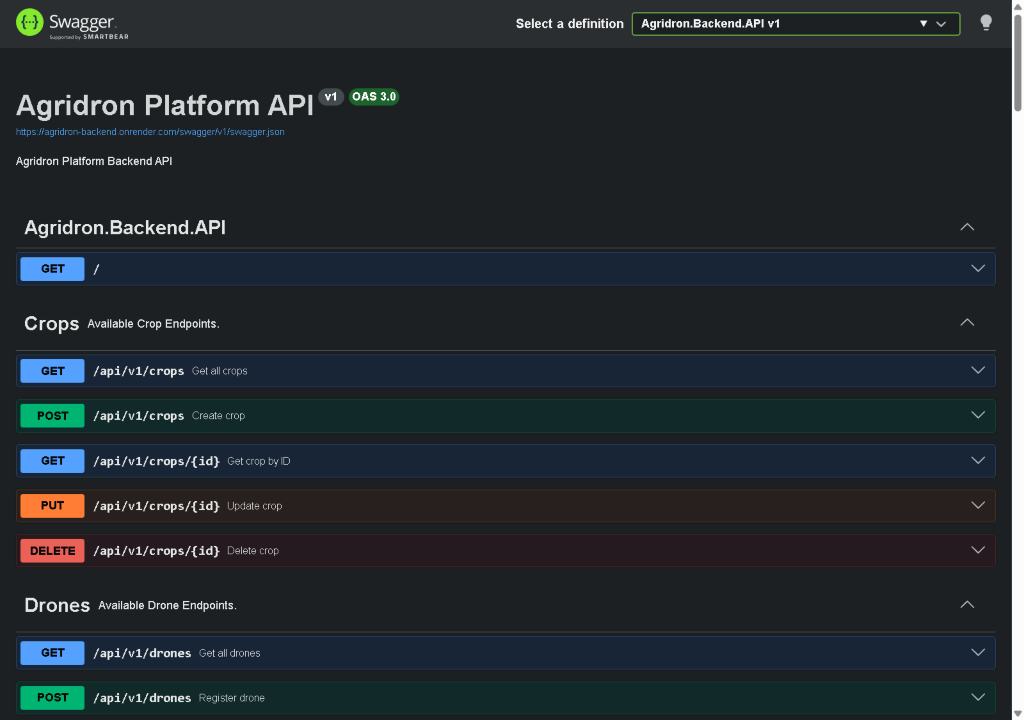
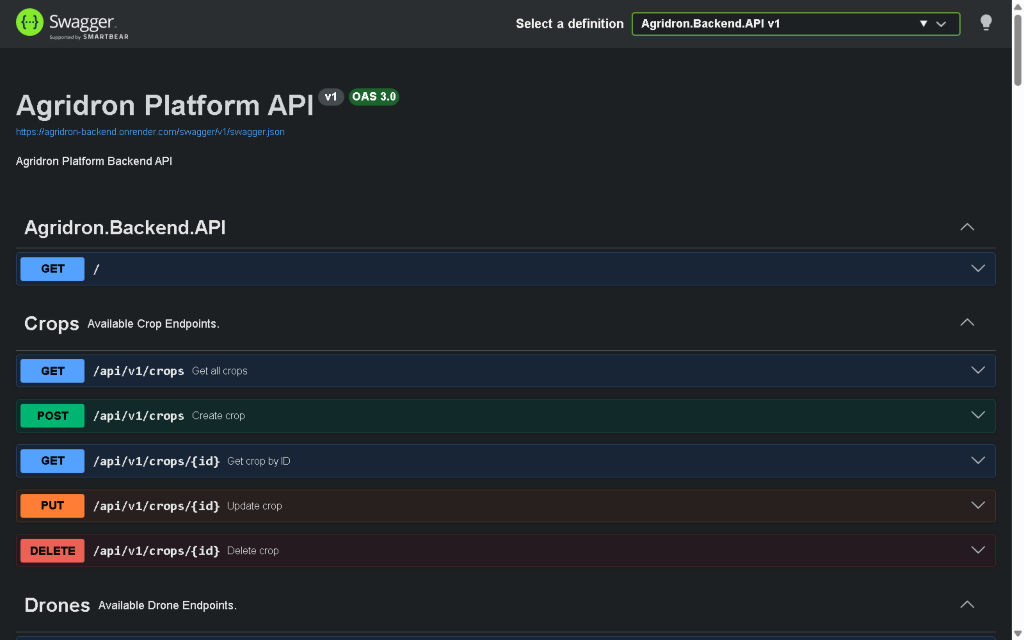
docs(sprint3): update execution, swagger and deployment evidence with browser captures

diff --git a/README.md b/README.md
@@ -3341,36 +3341,82 @@ A continuación se presentan los commits más representativos ejecutados durante
 
 Durante este Sprint se consolidó la versión operativa de la Web Application desplegada en la nube conectada de extremo a extremo con el backend RESTful en ASP.NET Core 10. Las principales funcionalidades operativas son:
 
-1. **Gestión de Fincas y Parcelas con delimitación GeoJSON (Field Management):**
+1. **Dashboard Operativo e Integración Meteorológica en Vivo:**
+   Muestra métricas consolidadas en tiempo real (fincas registradas, parcelas, misiones y hectáreas totales), la tabla de misiones recientes y el widget meteorológico integrado con Open-Meteo y geocodificación inversa para validar condiciones de aspersión (`viento <= 15 km/h` y sin lluvia).
+2. **Gestión de Fincas y Parcelas con delimitación GeoJSON (Field Management):**
    Permite a los agricultores registrar sus unidades productivas mediante formularios reactivos que incorporan validación geométrica de polígonos GeoJSON (coordenadas de latitud y longitud). Cada parcela calcula su área en hectáreas y vincula el tipo de cultivo asociado.
-2. **Administración de Flota de Drones Agrícolas (Flight Operations):**
-   Presenta el catálogo de aeronaves no tripuladas disponibles, especificando modelo, fabricante, capacidad del tanque de aspersión en litros, autonomía de batería en minutos y estado operacional actual (DISPONIBLE, EN_MISION, MANTENIMIENTO, INACTIVO).
-3. **Planificación y Orquestación del Ciclo de Vida de Misiones de Fumigación:**
-   Módulo avanzado que modela la máquina de estados finita de una misión: Creación (DRAFT) -> Asignación de Recursos y Operador -> Configuración de Parámetros de Aspersión (altitud de vuelo, velocidad crucero, caudal de pulverización en L/ha) -> Aprobación (APPROVED) -> Inicio de Operación (IN_PROGRESS) -> Pausa / Reanudación (PAUSED) -> Finalización (COMPLETED) o Cancelación (CANCELLED).
-4. **Cabina de Telemetría en Vivo y Bitácora de Incidentes:**
-   Panel de supervisión interactivo que simula la recepción de telemetría del dron en vuelo: porcentaje de batería en tiempo real, altitud de vuelo, velocidad respecto al suelo, presión y nivel de líquido remanente en el depósito de aspersión. Además, permite reportar incidencias clasificadas por severidad (BAJA, MEDIA, ALTA, CRITICA).
-5. **Selector de Idioma Dinámico (i18n) y Notificaciones Toast Globales:**
-   Integración de PrimeVue `SelectButton` en la barra de navegación para conmutar fluidamente entre español e inglés (`es.json` y `en.json`), con persistencia en `localStorage`. Además, la integración de PrimeVue `ToastService` provee retroalimentación visual no invasiva en operaciones exitosas, advertencias y fallos del sistema.
+3. **Administración de Flota de Drones y Mantenimiento (Flight Operations):**
+   Presenta el catálogo de aeronaves no tripuladas conectadas con el backend (`DJI Agras T30`, `DJI Agras T40`, `XAG P100 Pro`), mostrando modelo, número de serie, capacidad del tanque en litros, horas de vuelo, batería y estado operacional (`AVAILABLE`, `ASSIGNED`, `IN_FLIGHT`, `PAUSED`, `MAINTENANCE`, `OUT_OF_SERVICE`), además del flujo de **Send to maintenance**, **Report failure** e historial **Maintenance History**.
+4. **Planificación y Orquestación del Ciclo de Vida de Misiones de Fumigación:**
+   Módulo avanzado que modela la máquina de estados finita de una misión: Creación (`DRAFT`) -> Asignación de Recursos y Operador -> Configuración de Parámetros de Aspersión (altitud de vuelo, velocidad crucero, caudal de pulverización en L/ha) -> Aprobación (`APPROVED`) -> Inicio de Operación (`IN_PROGRESS`) -> Pausa / Reanudación (`PAUSED`) -> Finalización (`COMPLETED`) o Cancelación (`CANCELLED`).
+5. **Cabina de Telemetría en Vivo y Bitácora de Incidentes:**
+   Panel de supervisión interactivo (`/misiones/:id/monitoreo`) que simula y persiste lecturas telemétricas del dron en vuelo (trayectoria en mapa, batería en tiempo real, altitud AGL, velocidad, nivel de tanque, cobertura y condiciones meteorológicas pre-vuelo), junto con el registro de incidencias.
+6. **Gestión de Inventario, Selector de Idioma Dinámico (`EN` / `ES`) y Diseño Responsivo:**
+   Módulo de inventario de agroquímicos y boquillas (`/inventario`), conmutación dinámica de idioma mediante PrimeVue `SelectButton` persistida en `localStorage`, notificaciones con `ToastService` y adaptación responsiva en dispositivos móviles (`390×844`).
+
+![Dashboard Operativo en Inglés](assets/chapter5/sprint3/exec-dashboard-en.png)
+
+*Figura: Dashboard principal (`/inicio`) en inglés mostrando KPIs reales, misiones recientes y condiciones meteorológicas en vivo.*
+
+![Gestión de Parcelas](assets/chapter5/sprint3/exec-parcels.png)
+
+*Figura: Vista de gestión de parcelas (`/parcelas`) con cultivo asignado, área en hectáreas y acciones CRUD.*
+
+![Flota de Drones Agrícolas](assets/chapter5/sprint3/exec-drones-fleet.png)
+
+*Figura: Catálogo de flota de drones (`/drones`) sincronizado con la API RESTful de producción.*
+
+![Detalle de Dron y Mantenimiento](assets/chapter5/sprint3/exec-drone-maintenance.png)
+
+*Figura: Vista de detalle de dron (`/drones/1`) con acciones de mantenimiento (`Send to maintenance`), reporte de falla (`Report failure`) e historial (`Maintenance History`).*
+
+![Cabina de Telemetría en Vivo](assets/chapter5/sprint3/exec-mission-cockpit.png)
+
+*Figura: Cabina de control y telemetría en vivo (`/misiones/1/monitoreo`) con trayectoria, indicadores de vuelo, clima e incidencias.*
+
+![Gestión de Inventario y Recursos](assets/chapter5/sprint3/exec-inventory.png)
+
+*Figura: Módulo de Inventario y Gestión de Recursos (`/inventario`) para agroquímicos y boquillas.*
+
+![Vista Móvil Responsiva de AgriDron Web App](assets/chapter5/sprint3/exec-mobile-responsive.png)
+
+*Figura: Adaptación responsiva en viewport móvil (`390×844`) con menú colapsable y tarjetas apiladas.*
 
 #### 5.2.3.6. Services Documentation Evidence for Sprint Review
 
-El backend de AgriDron Solutions fue diseñado e implementado siguiendo rigurosamente los principios de **Domain-Driven Design (DDD)** táctico propuestos por Eric Evans, complementado con el patrón **Command Query Responsibility Segregation (CQRS)** mediante MediatR. La API RESTful expone 50 operaciones completamente documentadas con OpenAPI Specification (OAS 3.0) y visualizadas interactivamente a través de Swagger UI.
+El backend de AgriDron Solutions fue diseñado e implementado siguiendo rigurosamente los principios de **Domain-Driven Design (DDD)** táctico, complementado con el patrón **Command Query Responsibility Segregation (CQRS)** mediante **Cortex Mediator**. La API RESTful expone **54 operaciones** completamente documentadas con OpenAPI Specification (OAS 3.0) y visualizadas interactivamente a través de Swagger UI, incluyendo los endpoints de mantenimiento preventivo/correctivo y fallos de flota incorporados en el Sprint 3.
 
 - **Repositorio de código fuente:** [https://github.com/AgriDon/Agridron-backend](https://github.com/AgriDon/Agridron-backend)
 - **Documentación Swagger interactiva en vivo:** [https://agridron-backend.onrender.com/swagger/index.html](https://agridron-backend.onrender.com/swagger/index.html)
 
 ![Documentación Swagger UI de AgriDron Backend API](assets/chapter5/sprint3/swagger-documentation.png)
 
-*Figura: Interfaz de Swagger UI desplegada en Render mostrando los endpoints de Field Management y Flight Operations.*
+*Figura: Interfaz de Swagger UI desplegada en Render mostrando los grupos de endpoints de Crops, Drones, Farms, FumigationAreas, Incidents, Missions, Operations y Parcels.*
 
-A continuación se detalla la matriz completa de los 50 endpoints que componen los servicios RESTful del backend:
+![Endpoints de Drones y Mantenimiento en Swagger UI](assets/chapter5/sprint3/swagger-drones-maintenance.png)
+
+*Figura: Endpoints del controlador `Drones` en Swagger UI incluyendo el registro de mantenimiento, finalización, reporte de fallos e historial de registros.*
+
+![Prueba interactiva Try it out de GET /api/v1/drones](assets/chapter5/sprint3/swagger-try-it-out-drones.png)
+
+*Figura: Ejecución en vivo desde Swagger UI (`GET /api/v1/drones`) retornando HTTP `200 OK` con la flota inicializada (`AGRI-DR-002` DJI Agras T30, `AGRI-DR-001` DJI Agras T40, `AGRI-DR-003` XAG P100 Pro).*
+
+![Esquema de petición POST /api/v1/drones/{id}/maintenance en Swagger UI](assets/chapter5/sprint3/swagger-post-maintenance-schema.png)
+
+*Figura: Contrato OpenAPI y esquema JSON de `POST /api/v1/drones/{id}/maintenance` en Swagger UI.*
+
+![Endpoints de Misiones y Máquina de Estados en Swagger UI](assets/chapter5/sprint3/swagger-missions-endpoints.png)
+
+*Figura: Endpoints del controlador `Missions` cubriendo CRUD y transiciones de ciclo de vida (`approve`, `start`, `pause`, `resume`, `complete`, `cancel`).*
+
+A continuación se detalla la matriz completa de los **54 endpoints** que componen los servicios RESTful del backend:
 
 | # | Bounded Context | Controlador | Método | Ruta del Endpoint | Códigos HTTP | Propósito Funcional |
 |:--:|:--|:--|:--:|:--|:--:|:--|
 | 1 | Field Management | Crops | `GET` | `/api/v1/crops` | 200 | Listar todos los cultivos registrados |
 | 2 | Field Management | Crops | `GET` | `/api/v1/crops/{id}` | 200, 404 | Obtener detalle de cultivo por ID |
 | 3 | Field Management | Crops | `POST` | `/api/v1/crops` | 201, 400 | Registrar un nuevo cultivo fitosanitario |
-| 4 | Field Management | Crops | `PUT` | `/api/v1/crops/{id}` | 200, 400, 404 | Actualizar datos y requerimientos del cultivo |
+| 4 | Field Management | Crops | `PUT` | `/api/v1/crops/{id}` | 200, 400, 404 | Actualizar datos y requisitos del cultivo |
 | 5 | Field Management | Crops | `DELETE` | `/api/v1/crops/{id}` | 204, 404 | Eliminar cultivo por ID |
 | 6 | Field Management | Farms | `GET` | `/api/v1/farms` | 200 | Listar todas las fincas agrícolas |
 | 7 | Field Management | Farms | `GET` | `/api/v1/farms/{id}` | 200, 404 | Obtener información detallada de finca por ID |
@@ -3392,31 +3438,35 @@ A continuación se detalla la matriz completa de los 50 endpoints que componen l
 | 23 | Flight Operations | Drones | `POST` | `/api/v1/drones` | 201, 400 | Registrar nueva aeronave con capacidad y autonomía |
 | 24 | Flight Operations | Drones | `PUT` | `/api/v1/drones/{id}` | 200, 400, 404 | Actualizar datos técnicos o estado de operatividad |
 | 25 | Flight Operations | Drones | `DELETE` | `/api/v1/drones/{id}` | 204, 404 | Retirar aeronave de la flota activa |
-| 26 | Flight Operations | Missions | `GET` | `/api/v1/missions` | 200 | Listar misiones de fumigación planificadas y ejecutadas |
-| 27 | Flight Operations | Missions | `GET` | `/api/v1/missions/{id}` | 200, 404 | Consultar estado y parámetros completos de una misión |
-| 28 | Flight Operations | Missions | `POST` | `/api/v1/missions` | 201, 400 | Crear borrador de misión fitosanitaria (estado DRAFT) |
-| 29 | Flight Operations | Missions | `PUT` | `/api/v1/missions/{id}` | 200, 400, 404 | Modificar datos base del borrador de misión |
-| 30 | Flight Operations | Missions | `DELETE` | `/api/v1/missions/{id}` | 204, 404 | Eliminar misión en estado borrador |
-| 31 | Flight Operations | Missions | `POST` | `/api/v1/missions/{id}/resources` | 200, 400, 404 | Asignar dron y área de fumigación a la misión |
-| 32 | Flight Operations | Missions | `POST` | `/api/v1/missions/{id}/operator` | 200, 400, 404 | Asignar operador técnico certificado a la misión |
-| 33 | Flight Operations | Missions | `POST` | `/api/v1/missions/{id}/flight-parameters` | 200, 400, 404 | Configurar altitud, velocidad, caudal y modo de vuelo |
-| 34 | Flight Operations | Missions | `POST` | `/api/v1/missions/{id}/approve` | 200, 400, 404 | Transición de estado: Aprobar misión (DRAFT -> APPROVED) |
-| 35 | Flight Operations | Missions | `POST` | `/api/v1/missions/{id}/start` | 200, 400, 404 | Transición de estado: Iniciar vuelo (APPROVED -> IN_PROGRESS) |
-| 36 | Flight Operations | Missions | `POST` | `/api/v1/missions/{id}/pause` | 200, 400, 404 | Transición de estado: Pausar misión (IN_PROGRESS -> PAUSED) |
-| 37 | Flight Operations | Missions | `POST` | `/api/v1/missions/{id}/resume` | 200, 400, 404 | Transición de estado: Reanudar vuelo (PAUSED -> IN_PROGRESS) |
-| 38 | Flight Operations | Missions | `POST` | `/api/v1/missions/{id}/complete` | 200, 400, 404 | Transición de estado: Completar misión (IN_PROGRESS -> COMPLETED) |
-| 39 | Flight Operations | Missions | `POST` | `/api/v1/missions/{id}/cancel` | 200, 400, 404 | Cancelar misión y liberar recursos asociados |
-| 40 | Flight Operations | Operations | `GET` | `/api/v1/operations` | 200 | Listar estados operacionales y bitácora telemétrica |
-| 41 | Flight Operations | Operations | `GET` | `/api/v1/operations/{id}` | 200, 404 | Consultar reporte telemétrico individual |
-| 42 | Flight Operations | Operations | `POST` | `/api/v1/operations` | 201, 400 | Registrar nuevo reporte de telemetría de dron en vuelo |
-| 43 | Flight Operations | Operations | `PUT` | `/api/v1/operations/{id}` | 200, 400, 404 | Actualizar métricas del estado operacional |
-| 44 | Flight Operations | Operations | `DELETE` | `/api/v1/operations/{id}` | 204, 404 | Eliminar registro operacional |
-| 45 | Flight Operations | Incidents | `GET` | `/api/v1/incidents` | 200 | Listar bitácora de incidentes reportados en vuelo |
-| 46 | Flight Operations | Incidents | `GET` | `/api/v1/incidents/{id}` | 200, 404 | Consultar incidente particular con su nivel de severidad |
-| 47 | Flight Operations | Incidents | `POST` | `/api/v1/incidents` | 201, 400 | Reportar nuevo incidente técnico o climático |
-| 48 | Flight Operations | Incidents | `PUT` | `/api/v1/incidents/{id}` | 200, 400, 404 | Actualizar resolución o descripción del incidente |
-| 49 | Flight Operations | Incidents | `DELETE` | `/api/v1/incidents/{id}` | 204, 404 | Eliminar registro de incidente |
-| 50 | Shared API | Root | `GET` | `/` | 302 | Redirección directa a la documentación Swagger UI |
+| 26 | Flight Operations | Drones | `POST` | `/api/v1/drones/{id}/maintenance` | 200, 400, 404 | Enviar aeronave a mantenimiento preventivo o correctivo |
+| 27 | Flight Operations | Drones | `POST` | `/api/v1/drones/{id}/maintenance/complete` | 200, 400, 404 | Finalizar mantenimiento y restaurar disponibilidad operativa |
+| 28 | Flight Operations | Drones | `POST` | `/api/v1/drones/{id}/failure` | 200, 400, 404 | Reportar fallo técnico y bloquear aeronave para vuelo |
+| 29 | Flight Operations | Drones | `GET` | `/api/v1/drones/{id}/maintenance-records` | 200, 404 | Consultar historial de registros de mantenimiento del dron |
+| 30 | Flight Operations | Missions | `GET` | `/api/v1/missions` | 200 | Listar misiones de fumigación planificadas y ejecutadas |
+| 31 | Flight Operations | Missions | `GET` | `/api/v1/missions/{id}` | 200, 404 | Consultar estado y parámetros completos de una misión |
+| 32 | Flight Operations | Missions | `POST` | `/api/v1/missions` | 201, 400 | Crear borrador de misión fitosanitaria (estado DRAFT) |
+| 33 | Flight Operations | Missions | `PUT` | `/api/v1/missions/{id}` | 200, 400, 404 | Modificar datos base del borrador de misión |
+| 34 | Flight Operations | Missions | `DELETE` | `/api/v1/missions/{id}` | 204, 404 | Eliminar misión en estado borrador |
+| 35 | Flight Operations | Missions | `POST` | `/api/v1/missions/{id}/resources` | 200, 400, 404 | Asignar dron y área de fumigación a la misión |
+| 36 | Flight Operations | Missions | `POST` | `/api/v1/missions/{id}/operator` | 200, 400, 404 | Asignar operador técnico certificado a la misión |
+| 37 | Flight Operations | Missions | `POST` | `/api/v1/missions/{id}/flight-parameters` | 200, 400, 404 | Configurar altitud, velocidad, caudal y modo de vuelo |
+| 38 | Flight Operations | Missions | `POST` | `/api/v1/missions/{id}/approve` | 200, 400, 404 | Transición de estado: Aprobar misión (DRAFT -> APPROVED) |
+| 39 | Flight Operations | Missions | `POST` | `/api/v1/missions/{id}/start` | 200, 400, 404 | Transición de estado: Iniciar vuelo (APPROVED -> IN_PROGRESS) |
+| 40 | Flight Operations | Missions | `POST` | `/api/v1/missions/{id}/pause` | 200, 400, 404 | Transición de estado: Pausar misión (IN_PROGRESS -> PAUSED) |
+| 41 | Flight Operations | Missions | `POST` | `/api/v1/missions/{id}/resume` | 200, 400, 404 | Transición de estado: Reanudar vuelo (PAUSED -> IN_PROGRESS) |
+| 42 | Flight Operations | Missions | `POST` | `/api/v1/missions/{id}/complete` | 200, 400, 404 | Transición de estado: Completar misión (IN_PROGRESS -> COMPLETED) |
+| 43 | Flight Operations | Missions | `POST` | `/api/v1/missions/{id}/cancel` | 200, 400, 404 | Cancelar misión y liberar recursos asociados |
+| 44 | Flight Operations | Operations | `GET` | `/api/v1/operations` | 200 | Listar estados operacionales y bitácora telemétrica |
+| 45 | Flight Operations | Operations | `GET` | `/api/v1/operations/{id}` | 200, 404 | Consultar reporte telemétrico individual |
+| 46 | Flight Operations | Operations | `POST` | `/api/v1/operations` | 201, 400 | Registrar nuevo reporte de telemetría de dron en vuelo |
+| 47 | Flight Operations | Operations | `PUT` | `/api/v1/operations/{id}` | 200, 400, 404 | Actualizar métricas del estado operacional |
+| 48 | Flight Operations | Operations | `DELETE` | `/api/v1/operations/{id}` | 204, 404 | Eliminar registro operacional |
+| 49 | Flight Operations | Incidents | `GET` | `/api/v1/incidents` | 200 | Listar bitácora de incidentes reportados en vuelo |
+| 50 | Flight Operations | Incidents | `GET` | `/api/v1/incidents/{id}` | 200, 404 | Consultar incidente particular con su nivel de severidad |
+| 51 | Flight Operations | Incidents | `POST` | `/api/v1/incidents` | 201, 400 | Reportar nuevo incidente técnico o climático |
+| 52 | Flight Operations | Incidents | `PUT` | `/api/v1/incidents/{id}` | 200, 400, 404 | Actualizar resolución o descripción del incidente |
+| 53 | Flight Operations | Incidents | `DELETE` | `/api/v1/incidents/{id}` | 204, 404 | Eliminar registro de incidente |
+| 54 | Shared API | Root | `GET` | `/` | 302 | Redirección directa a la documentación Swagger UI |
 
 #### 5.2.3.7. Software Deployment Evidence for Sprint Review
 
@@ -3426,26 +3476,35 @@ Durante el Sprint 3 se ejecutó el despliegue en la nube de todos los componente
    - La API fue empaquetada como imagen de contenedor Docker utilizando un Dockerfile multi-stage basado en el SDK de .NET 10 y el runtime ASP.NET Core 10.
    - Se configuró como Web Service en la plataforma Render.com conectado a la rama `main` del repositorio `AgriDon/Agridron-backend`, con compilación y despliegue continuo automatizado ante cada commit.
    - La aplicación ejecuta en entorno Linux expuesta en el puerto 8080 con certificados SSL/TLS automáticos.
-   - Al iniciar, el runtime ejecuta automáticamente las migraciones pendientes de Entity Framework Core mediante `Database.Migrate()` y ejecuta el `DatabaseSeeder` para inicializar el catálogo de cultivos, fincas, parcelas y drones.
+   - Al iniciar, el runtime ejecuta automáticamente las migraciones pendientes de Entity Framework Core mediante `Database.Migrate()` (incluyendo `AddMaintenanceRecords`) y ejecuta el `DatabaseSeeder` para inicializar el catálogo de cultivos, fincas, parcelas y drones.
 2. **Base de Datos Relacional MySQL en la Nube (Filess.io):**
    - Se aprovisionó una instancia de base de datos MySQL 8.0 gestionada en el proveedor en la nube Filess.io (`kggahz.h.filess.io:3307`).
    - La base de datos almacena con integridad referencial las entidades de ambos bounded contexts, permitiendo persistencia confiable y consultas de alto rendimiento.
-3. **Web Application Frontend en Firebase Hosting:**
+3. **Web Application Frontend en Render Static Site y Firebase Hosting:**
    - La aplicación web desarrollada en Vue 3 con PrimeVue y Vite se compila para producción generando paquetes optimizados minificados en el directorio `dist/`.
-   - Se desplegó en **Firebase Hosting** con reglas de reescritura SPA hacia `/index.html` para permitir el enrutamiento del lado del cliente (`vue-router`).
+   - Se desplegó en **Render Static Site** (`https://agridron-frontend.onrender.com`) con despliegue continuo desde la rama `main` del repositorio `AgriDon/Agridron-Fronted`, y en **Firebase Hosting** (`https://agridronapp.web.app`) con reglas de reescritura SPA hacia `/index.html` para permitir el enrutamiento del lado del cliente (`vue-router`).
    - Se configuró la variable de entorno `VITE_API_BASE_URL` apuntando directamente a la URL de producción del backend en Render (`https://agridron-backend.onrender.com/api/v1`).
 4. **Landing Page en GitHub Pages:**
-   - Desplegada de forma continua en GitHub Pages con soporte responsivo y enlace directo a la Web Application.
+   - Desplegada de forma continua en GitHub Pages (`https://agridon.github.io/Agridron-LandingPage/`) con soporte responsivo y enlace directo a la Web Application.
 
 ![Evidencia de Despliegue de Backend en Render](assets/chapter5/sprint3/deploy-render-backend.png)
 
 *Figura: Despliegue activo y saludable de AgriDron Backend API en Render.com conectado a MySQL.*
 
+![Evidencia de Despliegue de Frontend en Render Static Site](assets/chapter5/sprint3/deploy-render-frontend.png)
+
+*Figura: Web Application de AgriDron desplegada en Render Static Site (`https://agridron-frontend.onrender.com`) consumiendo la API de producción.*
+
+![Evidencia de Despliegue de Landing Page en GitHub Pages](assets/chapter5/sprint3/deploy-landing-github-pages.png)
+
+*Figura: Landing Page oficial de AgriDron Solutions desplegada y operativa en GitHub Pages (`https://agridon.github.io/Agridron-LandingPage/`).*
+
 A continuación se resume la matriz de despliegue en la nube del producto:
 
 | Componente del Producto | Plataforma de Hosting | URL Pública Activa | Repositorio GitHub | Rama de Despliegue |
 |:--|:--|:--|:--|:--:|
-| **Web Application (Frontend)** | Firebase Hosting | [https://agridronapp.web.app](https://agridronapp.web.app) | [Agridron-Fronted](https://github.com/AgriDon/Agridron-Fronted) | `main` |
+| **Web Application (Frontend)** | Render Static Site | [https://agridron-frontend.onrender.com](https://agridron-frontend.onrender.com) | [Agridron-Fronted](https://github.com/AgriDon/Agridron-Fronted) | `main` |
+| **Web Application (Mirror SPA)** | Firebase Hosting | [https://agridronapp.web.app](https://agridronapp.web.app) | [Agridron-Fronted](https://github.com/AgriDon/Agridron-Fronted) | `main` |
 | **RESTful API (Backend)** | Render.com (Docker) | [https://agridron-backend.onrender.com](https://agridron-backend.onrender.com) | [Agridron-backend](https://github.com/AgriDon/Agridron-backend) | `main` |
 | **API Documentation (Swagger)** | Render.com | [https://agridron-backend.onrender.com/swagger/index.html](https://agridron-backend.onrender.com/swagger/index.html) | [Agridron-backend](https://github.com/AgriDon/Agridron-backend) | `main` |
 | **Base de Datos Relacional** | Filess.io Cloud | `kggahz.h.filess.io:3307` (`agridron_db_firststage`) | [Agridron-backend](https://github.com/AgriDon/Agridron-backend) | `main` |
